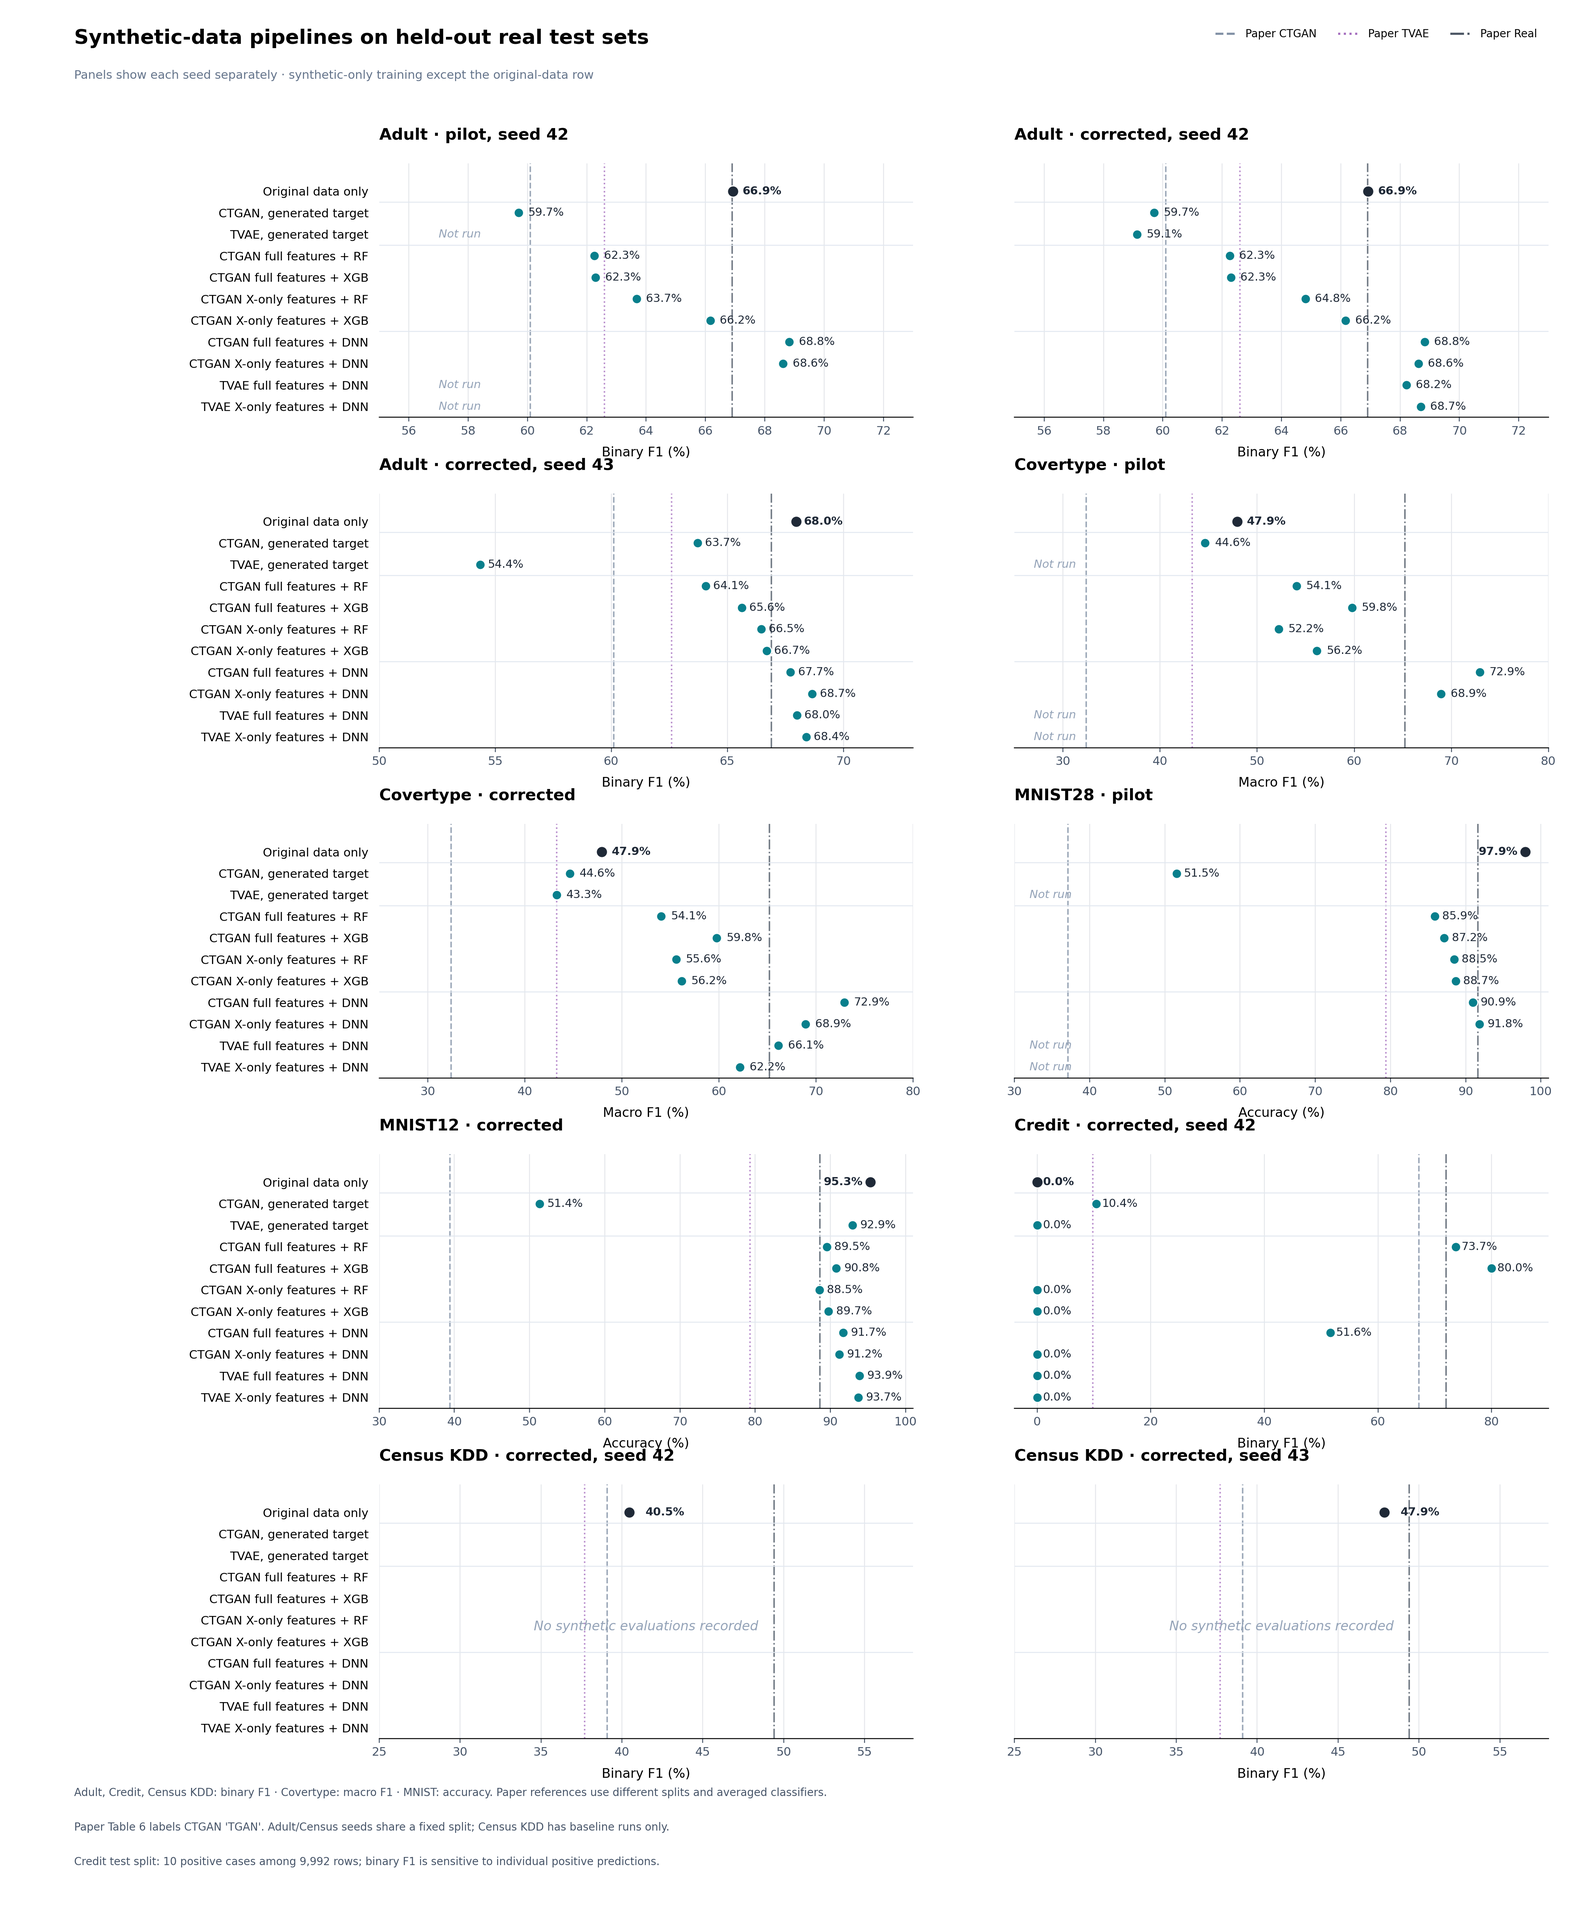
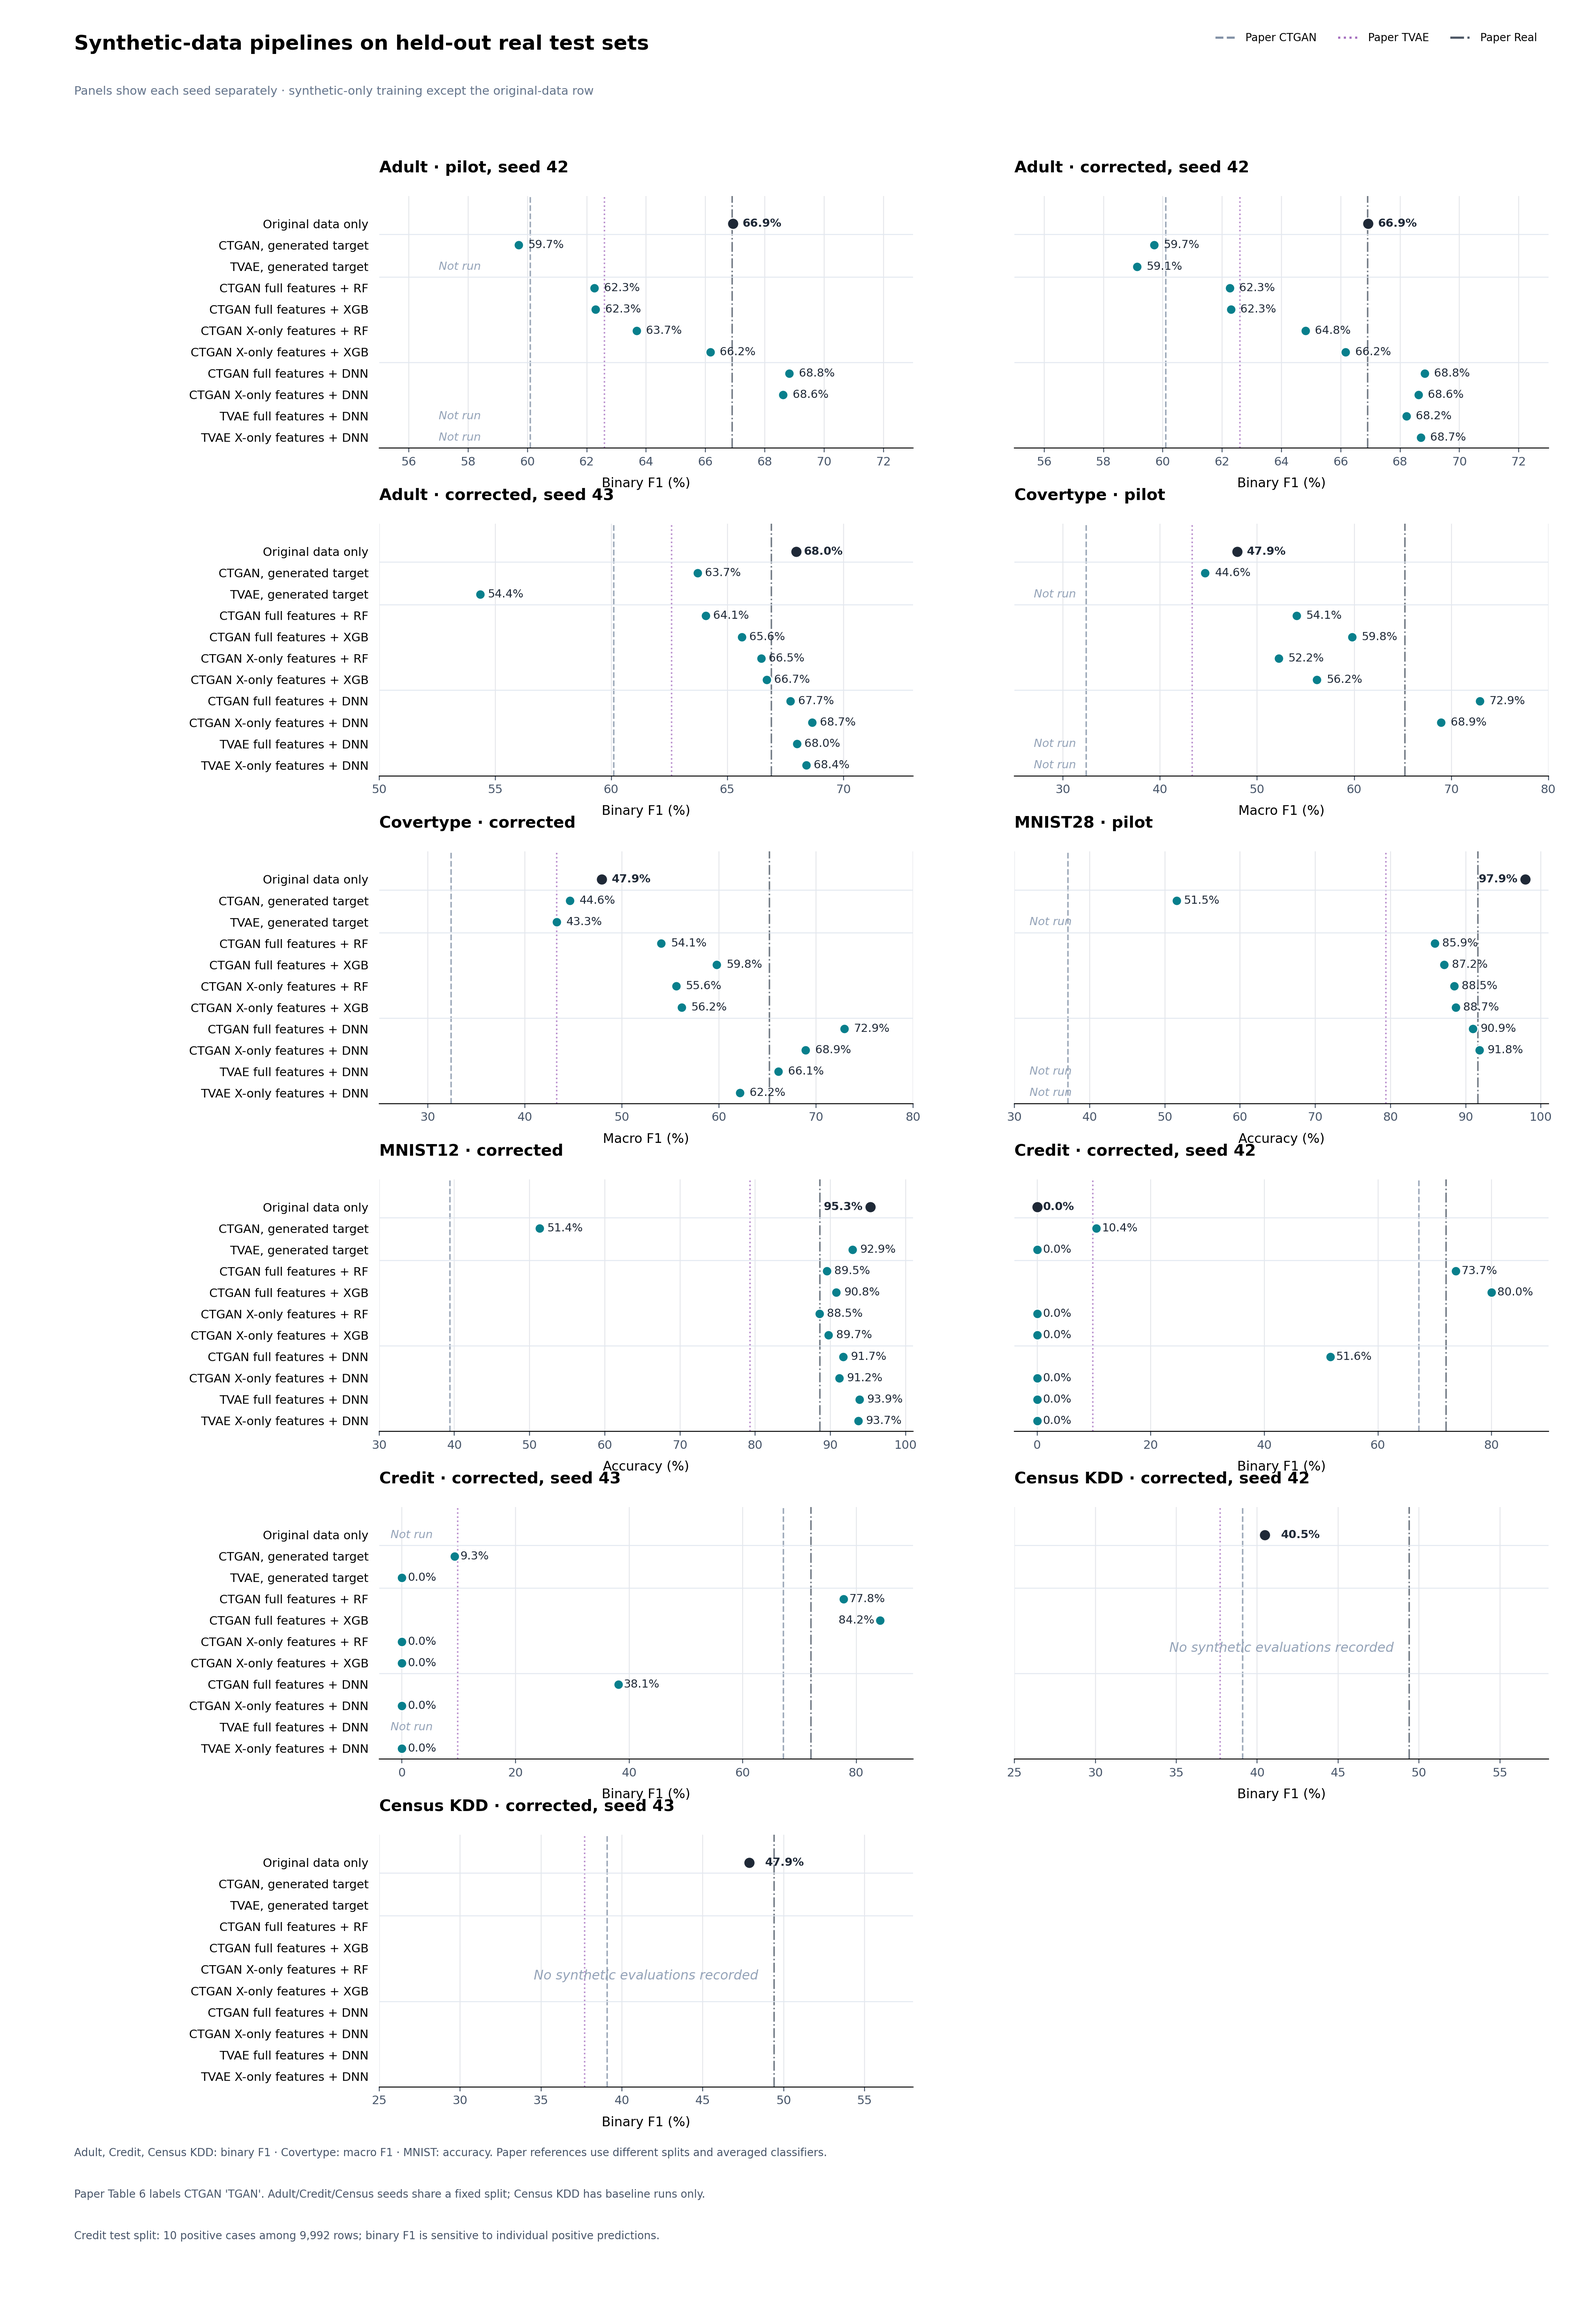
Show partial Credit seed-43 results in pipeline comparisons

diff --git a/scripts/plot_recent_comparison.py b/scripts/plot_recent_comparison.py
@@ -73,6 +73,13 @@ PANELS = {
         "paper": {"CTGAN": 67.2, "TVAE": 9.8, "Real": 72.0},
         "limits": (-4, 90), "coverage": "full",
     },
+    "credit_corrected_seed43": {
+        "dataset": "credit", "scope": "corrected_v2", "seed": 43,
+        "metric": "f1_binary", "metric_label": "Binary F1",
+        "title": "Credit · corrected, seed 43",
+        "paper": {"CTGAN": 67.2, "TVAE": 9.8, "Real": 72.0},
+        "limits": (-4, 90), "coverage": "partial",
+    },
     "census_kdd_corrected": {
         "dataset": "census_kdd", "scope": "corrected_v2", "metric": "f1_binary",
         "metric_label": "Binary F1", "title": "Census KDD · corrected, seed 42",
@@ -94,11 +101,17 @@ PAPER_STYLES = {
 }
 
 
+def run_path(info, suffix):
+    dataset = info["dataset"]
+    seed = info.get("seed", 42)
+    return (ROOT / "output" / info["scope"] / dataset / "acc"
+            / f"{dataset}_seed{seed}_{suffix}.run.json")
+
+
 def read_run(info, suffix):
     dataset = info["dataset"]
     seed = info.get("seed", 42)
-    path = (ROOT / "output" / info["scope"] / dataset / "acc"
-            / f"{dataset}_seed{seed}_{suffix}.run.json")
+    path = run_path(info, suffix)
     with path.open(encoding="utf-8") as source:
         record = json.load(source)
     expected_mode = "original" if suffix == "real_original" else "synthetic"
@@ -141,6 +154,8 @@ def is_available(info, suffix):
         return not suffix.startswith("tvae_")
     if coverage == "baseline_only":
         return suffix == "real_original"
+    if coverage == "partial":
+        return run_path(info, suffix).is_file()
     raise ValueError(f"Unknown coverage: {coverage}")
 
 
@@ -173,19 +188,22 @@ def main():
         print(f"{dataset}: pilot and corrected share split IDs and prepared-file hashes")
     assert manifests["mnist28_pilot"]["splits"] == manifests["mnist12_corrected"]["splits"]
     print("MNIST12 corrected and MNIST28 pilot share split IDs; feature representations differ")
-    for dataset in ("adult", "census_kdd"):
+    for dataset in ("adult", "credit", "census_kdd"):
         first = manifests[f"{dataset}_corrected"]
         second = manifests[f"{dataset}_corrected_seed43"]
         assert first["splits"] == second["splits"]
         assert first["files"] == second["files"]
-    print("Adult and Census KDD seeds 42 and 43 share the same prepared split")
+    print("Adult, Credit, and Census KDD seeds 42 and 43 share the same prepared split")
     assert {panel: sum(values[label][panel] is not None for label, _ in ROWS)
             for panel in PANELS} == {
                 "adult_pilot": 8, "adult_corrected": 11,
                 "adult_corrected_seed43": 11,
                 "covertype_pilot": 8, "covertype_corrected": 11,
                 "mnist28_pilot": 8, "mnist12_corrected": 11,
-                "credit_corrected": 11, "census_kdd_corrected": 1,
+                "credit_corrected": 11,
+                "credit_corrected_seed43": sum(is_available(PANELS["credit_corrected_seed43"], suffix)
+                                               for _, suffix in ROWS),
+                "census_kdd_corrected": 1,
                 "census_kdd_corrected_seed43": 1,
             }
     credit_test = manifests["credit_corrected"]["files"]["test"]["raw"]
@@ -209,26 +227,38 @@ def main():
                              *("" for _ in all_columns)))
 
     target_table = DEST / "dataset_pipeline_comparison.md"
-    headings = ["Configuration", *(info["title"] for info in PANELS.values())]
     table_lines = [
         "# Synthetic-data pipeline comparison",
         "",
         "All scores are percentages. Adult, Credit, and Census KDD use binary F1; "
         "Covertype uses macro F1; MNIST uses accuracy. A dash means no evaluated run is recorded. "
-        "Seed 42 is used unless the column says seed 43. The two seeds share the same "
-        "prepared train, development, and test split.",
+        "Seed 42 is used unless the column says seed 43. Within Adult, Credit, and Census KDD, "
+        "the two seeds share the same prepared train, development, and test split; "
+        "they are model-seed repeats, not independent holdouts.",
         "",
-        "| " + " | ".join(headings) + " |",
-        "|---" + "|---:" * len(PANELS) + "|",
+        "Credit seed 43 is partially complete. Missing configurations remain marked with a dash; "
+        "completed zero scores are displayed as 0.0%.",
+        "",
     ]
-    for label, _ in ROWS:
-        cells = [label, *(f"{values[label][panel]:.1f}%" if values[label][panel] is not None
-                          else "—" for panel in PANELS)]
-        table_lines.append("| " + " | ".join(cells) + " |")
-    for name in ("CTGAN", "TVAE", "Real"):
-        cells = [f"Paper {name} (reference)",
-                 *(f"{info['paper'][name]:.1f}%" for info in PANELS.values())]
-        table_lines.append("| " + " | ".join(cells) + " |")
+    table_groups = {
+        "Pilot · seed 42": [p for p, info in PANELS.items() if info["coverage"] == "pilot"],
+        "Corrected · seed 42": [p for p, info in PANELS.items()
+                                if info["scope"] == "corrected_v2" and info.get("seed", 42) == 42],
+        "Corrected · seed 43": [p for p, info in PANELS.items() if info.get("seed", 42) == 43],
+    }
+    for title, panels in table_groups.items():
+        headings = ["Configuration", *(PANELS[p]["title"].split(" · ")[0] for p in panels)]
+        table_lines.extend([f"## {title}", "", "| " + " | ".join(headings) + " |",
+                            "|---" + "|---:" * len(panels) + "|"])
+        for label, _ in ROWS:
+            cells = [label, *(f"{values[label][panel]:.1f}%" if values[label][panel] is not None
+                              else "—" for panel in panels)]
+            table_lines.append("| " + " | ".join(cells) + " |")
+        for name in ("CTGAN", "TVAE", "Real"):
+            cells = [f"Paper {name} (reference)",
+                     *(f"{PANELS[p]['paper'][name]:.1f}%" for p in panels)]
+            table_lines.append("| " + " | ".join(cells) + " |")
+        table_lines.append("")
     table_lines.extend([
         "",
         "Paper references: [Xu et al., *Modeling Tabular Data using Conditional GAN*, "
@@ -248,7 +278,8 @@ def main():
     target_table.write_text("\n".join(table_lines) + "\n", encoding="utf-8")
 
     plt.rcParams.update({"font.family": "DejaVu Sans", "font.size": 10})
-    fig, axes = plt.subplots(5, 2, figsize=(18.5, 22.5), sharey="row")
+    nrows = (len(PANELS) + 1) // 2
+    fig, axes = plt.subplots(nrows, 2, figsize=(18.5, 4.5 * nrows), sharey="row")
     positions = list(range(len(ROWS)))
     for index, (ax, panel) in enumerate(zip(axes.flat, PANELS)):
         info = PANELS[panel]
@@ -291,6 +322,9 @@ def main():
         else:
             ax.tick_params(labelleft=False)
 
+    for ax in list(axes.flat)[len(PANELS):]:
+        ax.set_visible(False)
+
     handles = [Line2D([0], [0], color=style["color"], linestyle=style["linestyle"],
                       linewidth=1.8, label=f"Paper {name}")
                for name, style in PAPER_STYLES.items()]
@@ -304,7 +338,7 @@ def main():
              "Adult, Credit, Census KDD: binary F1 · Covertype: macro F1 · MNIST: accuracy. Paper references use different splits and averaged classifiers.",
              ha="left", color="#475569", fontsize=9)
     fig.text(0.047, 0.047,
-             "Paper Table 6 labels CTGAN 'TGAN'. Adult/Census seeds share a fixed split; Census KDD has baseline runs only.",
+             "Paper Table 6 labels CTGAN 'TGAN'. Adult/Credit/Census seeds share a fixed split; Census KDD has baseline runs only.",
              ha="left", color="#475569", fontsize=9)
     fig.text(0.047, 0.029,
              f"Credit test split: {credit_positive_count} positive cases among {credit_test_rows:,} rows; binary F1 is sensitive to individual positive predictions.",

diff --git a/output/comparisons/dataset_pipeline_comparison.md b/output/comparisons/dataset_pipeline_comparison.md
@@ -1,23 +1,66 @@
 # Synthetic-data pipeline comparison
 
-All scores are percentages. Adult, Credit, and Census KDD use binary F1; Covertype uses macro F1; MNIST uses accuracy. A dash means no evaluated run is recorded. Seed 42 is used unless the column says seed 43. The two seeds share the same prepared train, development, and test split.
+All scores are percentages. Adult, Credit, and Census KDD use binary F1; Covertype uses macro F1; MNIST uses accuracy. A dash means no evaluated run is recorded. Seed 42 is used unless the column says seed 43. Within Adult, Credit, and Census KDD, the two seeds share the same prepared train, development, and test split; they are model-seed repeats, not independent holdouts.
 
-| Configuration | Adult · pilot, seed 42 | Adult · corrected, seed 42 | Adult · corrected, seed 43 | Covertype · pilot | Covertype · corrected | MNIST28 · pilot | MNIST12 · corrected | Credit · corrected, seed 42 | Census KDD · corrected, seed 42 | Census KDD · corrected, seed 43 |
-|---|---:|---:|---:|---:|---:|---:|---:|---:|---:|---:|
-| Original data only | 66.9% | 66.9% | 68.0% | 47.9% | 47.9% | 97.9% | 95.3% | 0.0% | 40.5% | 47.9% |
-| CTGAN, generated target | 59.7% | 59.7% | 63.7% | 44.6% | 44.6% | 51.5% | 51.4% | 10.4% | — | — |
-| TVAE, generated target | — | 59.1% | 54.4% | — | 43.3% | — | 92.9% | 0.0% | — | — |
-| CTGAN full features + RF | 62.3% | 62.3% | 64.1% | 54.1% | 54.1% | 85.9% | 89.5% | 73.7% | — | — |
-| CTGAN full features + XGB | 62.3% | 62.3% | 65.6% | 59.8% | 59.8% | 87.2% | 90.8% | 80.0% | — | — |
-| CTGAN X-only features + RF | 63.7% | 64.8% | 66.5% | 52.2% | 55.6% | 88.5% | 88.5% | 0.0% | — | — |
-| CTGAN X-only features + XGB | 66.2% | 66.2% | 66.7% | 56.2% | 56.2% | 88.7% | 89.7% | 0.0% | — | — |
-| CTGAN full features + DNN | 68.8% | 68.8% | 67.7% | 72.9% | 72.9% | 90.9% | 91.7% | 51.6% | — | — |
-| CTGAN X-only features + DNN | 68.6% | 68.6% | 68.7% | 68.9% | 68.9% | 91.8% | 91.2% | 0.0% | — | — |
-| TVAE full features + DNN | — | 68.2% | 68.0% | — | 66.1% | — | 93.9% | 0.0% | — | — |
-| TVAE X-only features + DNN | — | 68.7% | 68.4% | — | 62.2% | — | 93.7% | 0.0% | — | — |
-| Paper CTGAN (reference) | 60.1% | 60.1% | 60.1% | 32.4% | 32.4% | 37.1% | 39.4% | 67.2% | 39.1% | 39.1% |
-| Paper TVAE (reference) | 62.6% | 62.6% | 62.6% | 43.3% | 43.3% | 79.4% | 79.3% | 9.8% | 37.7% | 37.7% |
-| Paper Real (reference) | 66.9% | 66.9% | 66.9% | 65.2% | 65.2% | 91.6% | 88.6% | 72.0% | 49.4% | 49.4% |
+Credit seed 43 is partially complete. Missing configurations remain marked with a dash; completed zero scores are displayed as 0.0%.
+
+## Pilot · seed 42
+
+| Configuration | Adult | Covertype | MNIST28 |
+|---|---:|---:|---:|
+| Original data only | 66.9% | 47.9% | 97.9% |
+| CTGAN, generated target | 59.7% | 44.6% | 51.5% |
+| TVAE, generated target | — | — | — |
+| CTGAN full features + RF | 62.3% | 54.1% | 85.9% |
+| CTGAN full features + XGB | 62.3% | 59.8% | 87.2% |
+| CTGAN X-only features + RF | 63.7% | 52.2% | 88.5% |
+| CTGAN X-only features + XGB | 66.2% | 56.2% | 88.7% |
+| CTGAN full features + DNN | 68.8% | 72.9% | 90.9% |
+| CTGAN X-only features + DNN | 68.6% | 68.9% | 91.8% |
+| TVAE full features + DNN | — | — | — |
+| TVAE X-only features + DNN | — | — | — |
+| Paper CTGAN (reference) | 60.1% | 32.4% | 37.1% |
+| Paper TVAE (reference) | 62.6% | 43.3% | 79.4% |
+| Paper Real (reference) | 66.9% | 65.2% | 91.6% |
+
+## Corrected · seed 42
+
+| Configuration | Adult | Covertype | MNIST12 | Credit | Census KDD |
+|---|---:|---:|---:|---:|---:|
+| Original data only | 66.9% | 47.9% | 95.3% | 0.0% | 40.5% |
+| CTGAN, generated target | 59.7% | 44.6% | 51.4% | 10.4% | — |
+| TVAE, generated target | 59.1% | 43.3% | 92.9% | 0.0% | — |
+| CTGAN full features + RF | 62.3% | 54.1% | 89.5% | 73.7% | — |
+| CTGAN full features + XGB | 62.3% | 59.8% | 90.8% | 80.0% | — |
+| CTGAN X-only features + RF | 64.8% | 55.6% | 88.5% | 0.0% | — |
+| CTGAN X-only features + XGB | 66.2% | 56.2% | 89.7% | 0.0% | — |
+| CTGAN full features + DNN | 68.8% | 72.9% | 91.7% | 51.6% | — |
+| CTGAN X-only features + DNN | 68.6% | 68.9% | 91.2% | 0.0% | — |
+| TVAE full features + DNN | 68.2% | 66.1% | 93.9% | 0.0% | — |
+| TVAE X-only features + DNN | 68.7% | 62.2% | 93.7% | 0.0% | — |
+| Paper CTGAN (reference) | 60.1% | 32.4% | 39.4% | 67.2% | 39.1% |
+| Paper TVAE (reference) | 62.6% | 43.3% | 79.3% | 9.8% | 37.7% |
+| Paper Real (reference) | 66.9% | 65.2% | 88.6% | 72.0% | 49.4% |
+
+## Corrected · seed 43
+
+| Configuration | Adult | Credit | Census KDD |
+|---|---:|---:|---:|
+| Original data only | 68.0% | — | 47.9% |
+| CTGAN, generated target | 63.7% | 9.3% | — |
+| TVAE, generated target | 54.4% | 0.0% | — |
+| CTGAN full features + RF | 64.1% | 77.8% | — |
+| CTGAN full features + XGB | 65.6% | 84.2% | — |
+| CTGAN X-only features + RF | 66.5% | 0.0% | — |
+| CTGAN X-only features + XGB | 66.7% | 0.0% | — |
+| CTGAN full features + DNN | 67.7% | 38.1% | — |
+| CTGAN X-only features + DNN | 68.7% | 0.0% | — |
+| TVAE full features + DNN | 68.0% | — | — |
+| TVAE X-only features + DNN | 68.4% | 0.0% | — |
+| Paper CTGAN (reference) | 60.1% | 67.2% | 39.1% |
+| Paper TVAE (reference) | 62.6% | 9.8% | 37.7% |
+| Paper Real (reference) | 66.9% | 72.0% | 49.4% |
+
 
 Paper references: [Xu et al., *Modeling Tabular Data using Conditional GAN*, Table 6](https://arxiv.org/pdf/1907.00503). The appendix labels its CTGAN row "TGAN". Its scores use different splits and average multiple downstream classifiers.
 
